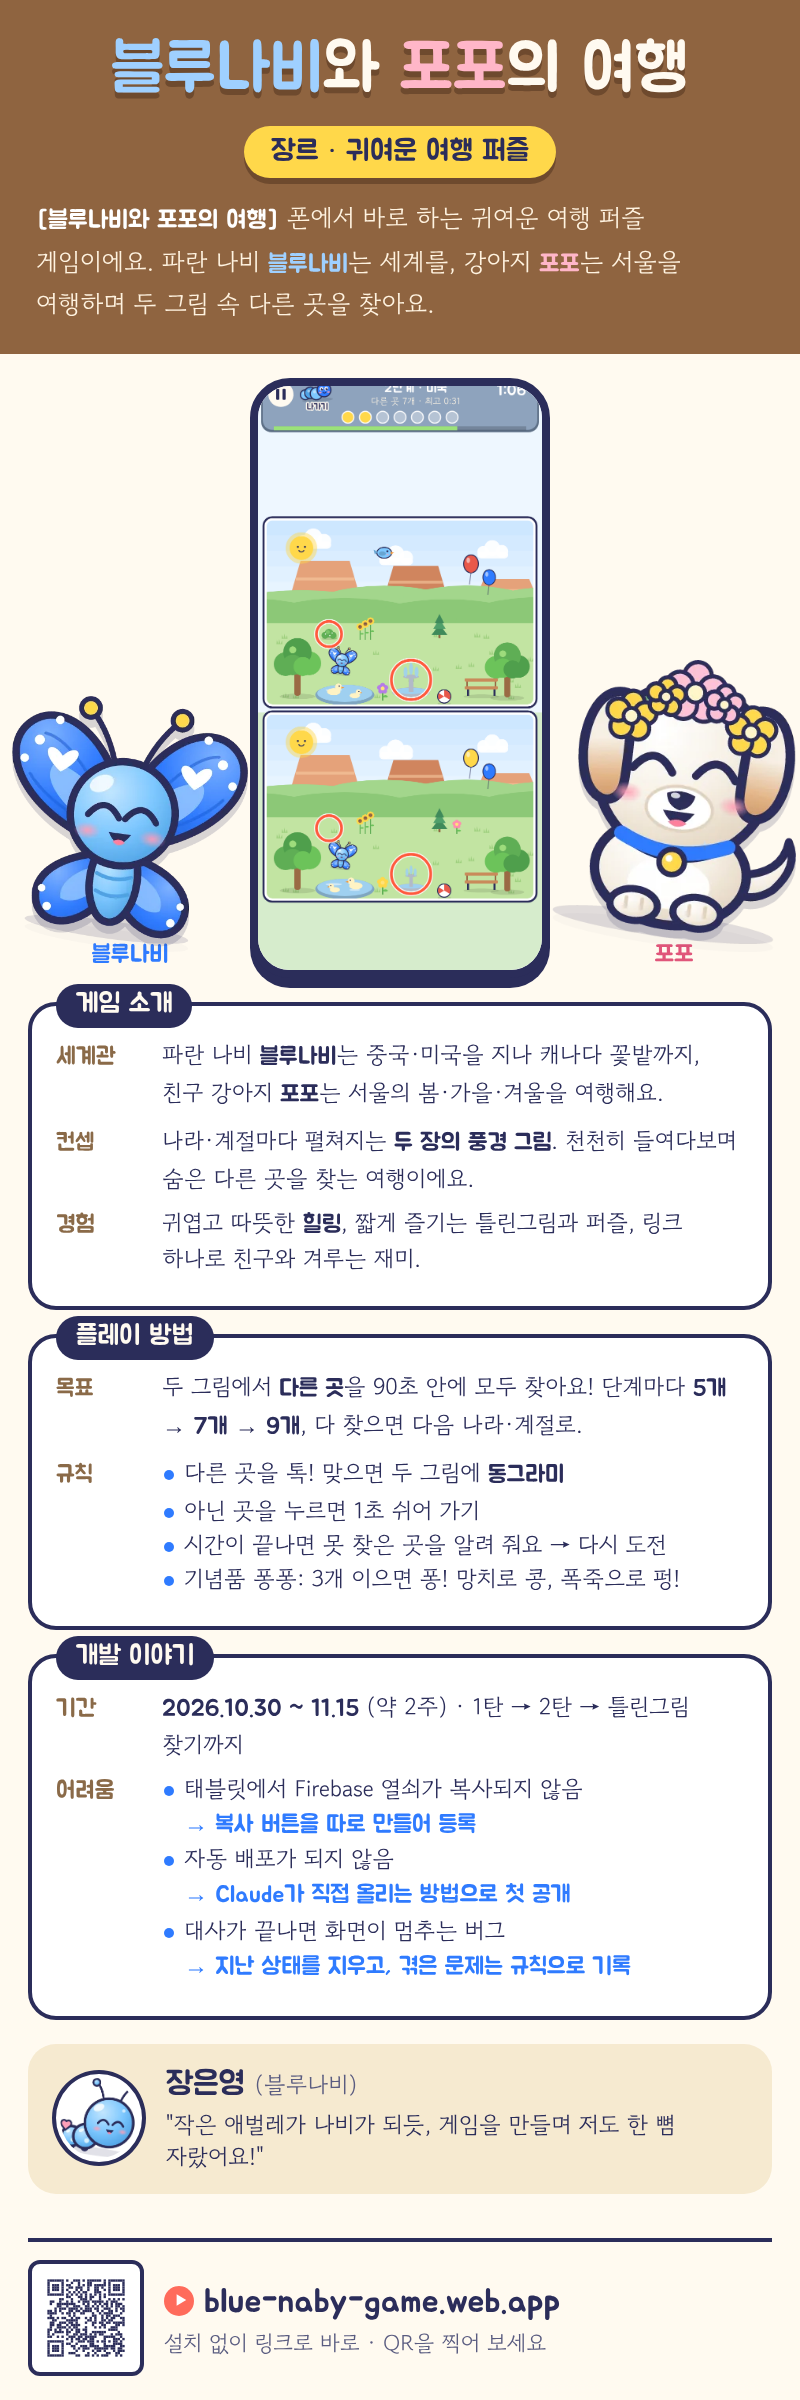
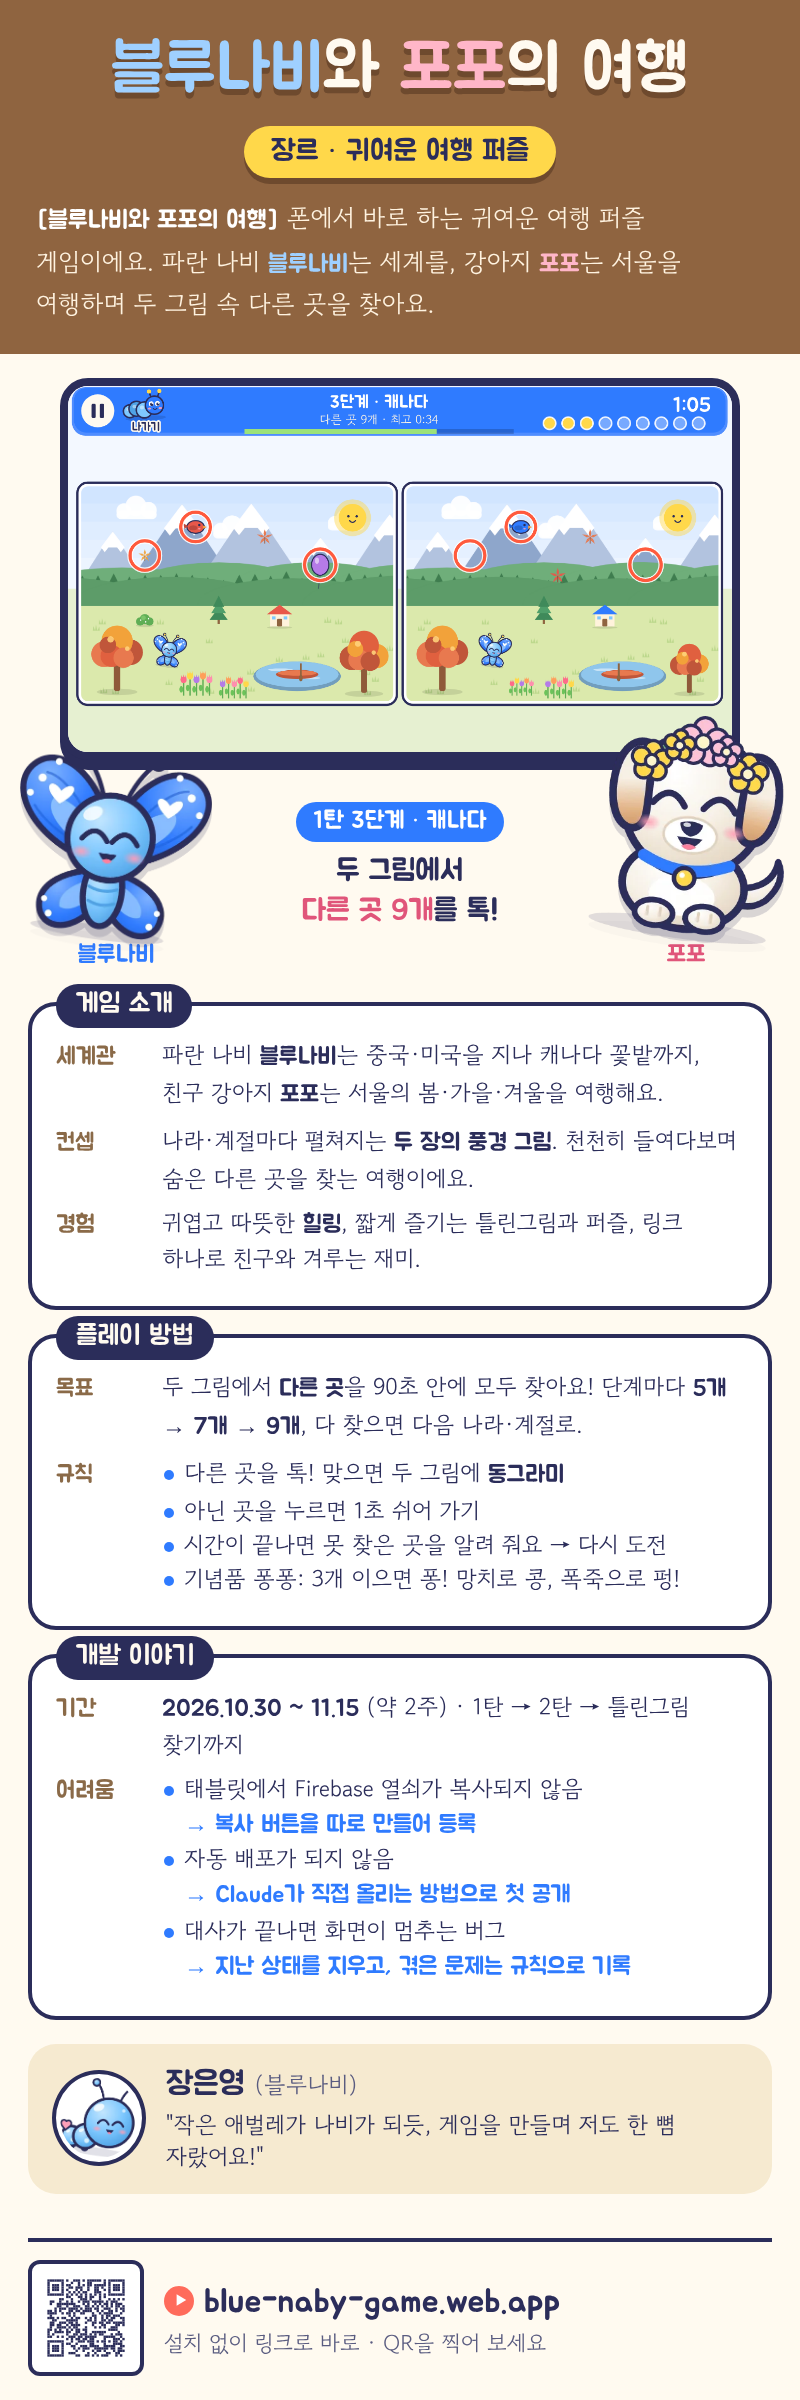
배너 메인 그림을 캐나다 틀린그림으로
Claude-Session: https://claude.ai/code/session_01TkNv9721uSkR9vMBe25YwV

Changed region(s): [[0.0, 0.1562, 1.0, 0.4375]]

diff --git a/docs/presentation/banner/banner.html b/docs/presentation/banner/banner.html
@@ -17,10 +17,15 @@ h1 b{font-weight:normal;color:#9fd0ff}h1 i{font-style:normal;color:#ffb6c8}
 .lead .bn{color:#9fd0ff}.lead .pp{color:#ffb6c8}
 /* 2) 메인 이미지 */
 .hero{position:relative;height:300px;margin-top:12px}
-.phone{position:absolute;left:50%;top:0;transform:translateX(-50%);width:150px;height:300px;border:4px solid var(--ink);border-radius:20px;overflow:hidden;box-shadow:0 5px 0 var(--ink);background:#fff}
-.phone img{width:100%;height:100%;object-fit:cover;object-position:center 40%;display:block}
+/* 2026-11-16: 메인 그림 = 캐나다 틀린그림 가로 화면(41:23, ../leaflet/canada-41x23.png) + 아래 양옆에 블루나비·포포 */
+.phone{position:absolute;left:50%;top:0;transform:translateX(-50%);width:340px;height:191px;border:4px solid var(--ink);border-radius:14px;overflow:hidden;box-shadow:0 5px 0 var(--ink);background:#fff;box-sizing:border-box}
+.phone img{width:100%;height:100%;object-fit:cover;display:block}
+.cap{position:absolute;left:50%;transform:translateX(-50%);top:206px;width:160px;text-align:center}
+.cap .k{display:inline-block;font-family:Jua;font-size:12px;color:#fff;background:var(--blue);padding:2px 9px 3px;border-radius:99px}
+.cap .t{font-family:Jua;font-size:15px;margin-top:5px;line-height:1.3}
+.cap .t b{color:var(--pink);font-weight:normal}
 .chr{position:absolute;bottom:4px}
-.chr.l{left:6px;width:118px}.chr.r{right:2px;width:122px}
+.chr.l{left:10px;width:96px}.chr.r{right:8px;width:98px}
 .chr img{width:100%;display:block;filter:drop-shadow(0 4px 0 rgba(43,45,90,.18))}
 .chr span{display:block;text-align:center;font-family:Jua;font-size:12px;margin-top:-2px}
 .chr.l span{color:var(--blue)}.chr.r span{color:var(--pink)}
@@ -59,7 +64,8 @@ li:before{content:'';position:absolute;left:1px;top:7px;width:5px;height:5px;bor
 <!-- 2) 메인 이미지: 대표 게임 화면 + 캐릭터 -->
 <div class="hero">
   <div class="chr l"><img src="../../../art/thumbnail/blue_butterfly.png" alt=""><span>블루나비</span></div>
-  <div class="phone"><img src="../leaflet/maze1.png" alt="게임 화면"></div>
+  <div class="phone"><img src="../leaflet/canada-41x23.png" alt="1탄 캐나다 틀린그림 화면"></div>
+  <div class="cap"><span class="k">1탄 3단계 · 캐나다</span><div class="t">두 그림에서<br><b>다른 곳 9개</b>를 톡!</div></div>
   <div class="chr r"><img src="../../../art/thumbnail/blue_popoSpring.png" alt=""><span>포포</span></div>
 </div>
 

diff --git a/CLAUDE.md b/CLAUDE.md
@@ -244,6 +244,7 @@
 | 2026-11-15 | **작은 돌 하나하나 연결되는 징검다리로 1탄 중국·일본, 2탄 봄·여름 이런 식으로 나눠지게** | v3.17.0: 고르기 화면의 "어디서?" 칸(글자 칩 3×3)을 연못 위 징검다리 두 줄로 — 1탄 세계여행 길·2탄 사계절 서울 길, 돌마다 나라·계절 이름, 돌 사이를 작은 조약돌이 이음, 톡 하면 골라지고 고른 돌에 블루나비·포포가 올라섬. 세로·가로·손가락 톡(잠긴 돌은 안 골라짐) 확인 |
 | 2026-11-15 | 홈(지구본에서 들어가는 화면)도 **여행 출발·여행 중**으로, **같이 하기 밑 [홈으로] 칸 없애** | v3.17.0: 홈 1탄·2탄 버튼 아래 글 "처음부터" → "여행 출발", "이어하기 · N단계 나라" → "여행 중 · N단계 나라"(`TitleScene` `progressLabel`, 다 깼으면 "여행 끝! 엔딩 보기" 그대로), 같이 하기 버튼 아래 "혼자 · 2명 · 미로 / 기념품 퐁퐁". 같이 하기 아래는 [대결함] 하나만(홈은 왼쪽 위 [◀ 홈]) |
 | 2026-11-15 | 퐁퐁게임 중 **같이 하기에서 3명 모드 빼고**, **미로 여행·기념품 퐁퐁을 징검다리 그림을 터치해서 들어가게** | 답: 같이 하기 전체에서 3명 뺌 / 돌을 톡 하면 바로 들어가기 — v3.17.0: 같이 하기 첫 화면 = 연못 위 징검다리(큰 돌 미로 여행·기념품 퐁퐁 + 작은 돌 길, 살랑 떠 있음), 돌 톡 → 그 놀이 고르기 화면(어디서·어떻게·시작). 몇 명? 혼자·2명만. 옛 3명 링크는 계속 열림. 세로·가로·손가락 톡 시험 |
+| 2026-11-16 | **배너에도 캐나다 그림 넣어서 다시 만들어** | `banner.html` 메인 그림: 세로 폰 화면(미국) 대신 캐나다 틀린그림 가로 화면(`../leaflet/canada-41x23.png`, 340×191px = 41:23)을 위에, 아래 가운데 "1탄 3단계 · 캐나다 / 두 그림에서 다른 곳 9개를 톡!", 양옆에 블루나비·포포. `banner.png`·`@2x` 다시 뽑음(400×1200) |
 | 2026-11-16 | 리플렛 캐나다 그림을 **41×23mm 사이즈로** | `leaflet.html`: 위 큰 그림은 다시 첫 화면(og-image-v14, 높이 45mm), 그 아래 칸에 캐나다 틀린그림을 인쇄 크기 **41×23mm 그대로**(재어 보니 41.0×23.0mm) + 옆 설명(1탄 3단계 · 캐나다 / 두 그림에서 다른 곳을 톡! / 다른 곳 9개…). `leaflet.pdf`·`.png` A4 한 장 |
 | 2026-11-16 | **리플렛에 이(캐나다 41×23) 그림 넣어서 다시 만들어** | `leaflet.html` 큰 그림 자리: 첫 화면(og-image) 대신 `canada-41x23.png`를 자르지 않고(128×72mm) + 오른쪽 설명 칸("1탄 3단계 · 캐나다 / 두 그림에서 다른 곳을 톡! / 다른 곳 9개를 90초 안에…"). `leaflet.pdf`·`.png` 다시 뽑음, A4 한 장 |
 | 2026-11-16 | **리플렛에 들어갈 이미지 41×23 캐나다 버전으로** | `docs/presentation/leaflet/canada-41x23.png`·`.jpg`(1283×720 = 41:23, 795dpi로 저장해 41×23mm로 열림): v4.2.0 1탄 3단계 캐나다 틀린그림 가로 화면 실제 캡처(다른 곳 9개 중 3개 찾은 장면, 남은 시간 1:05) |
